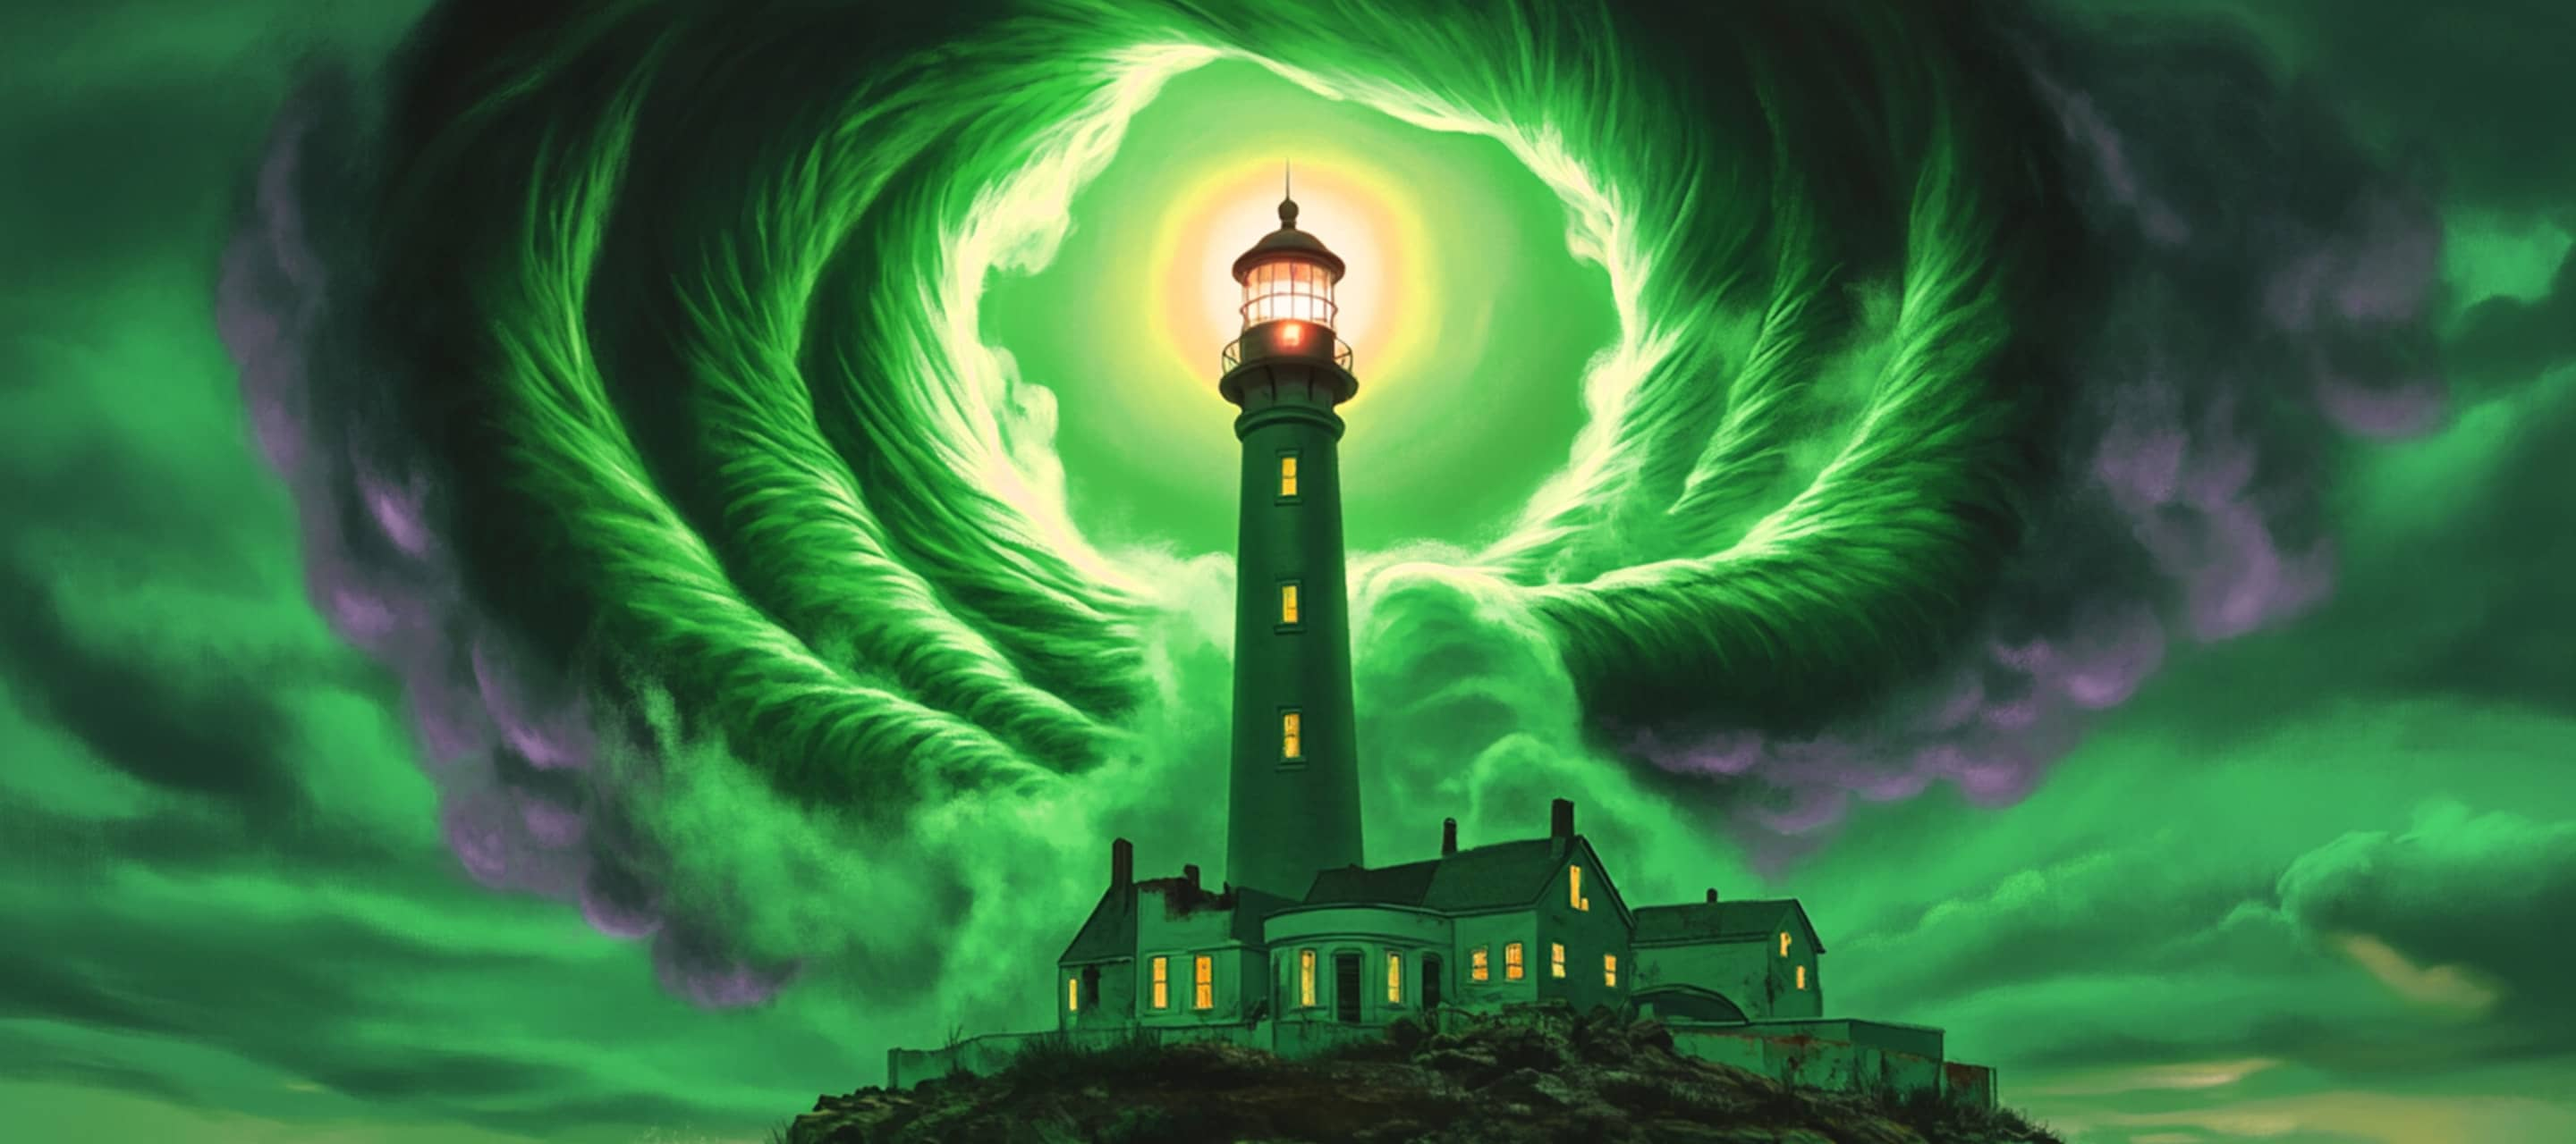
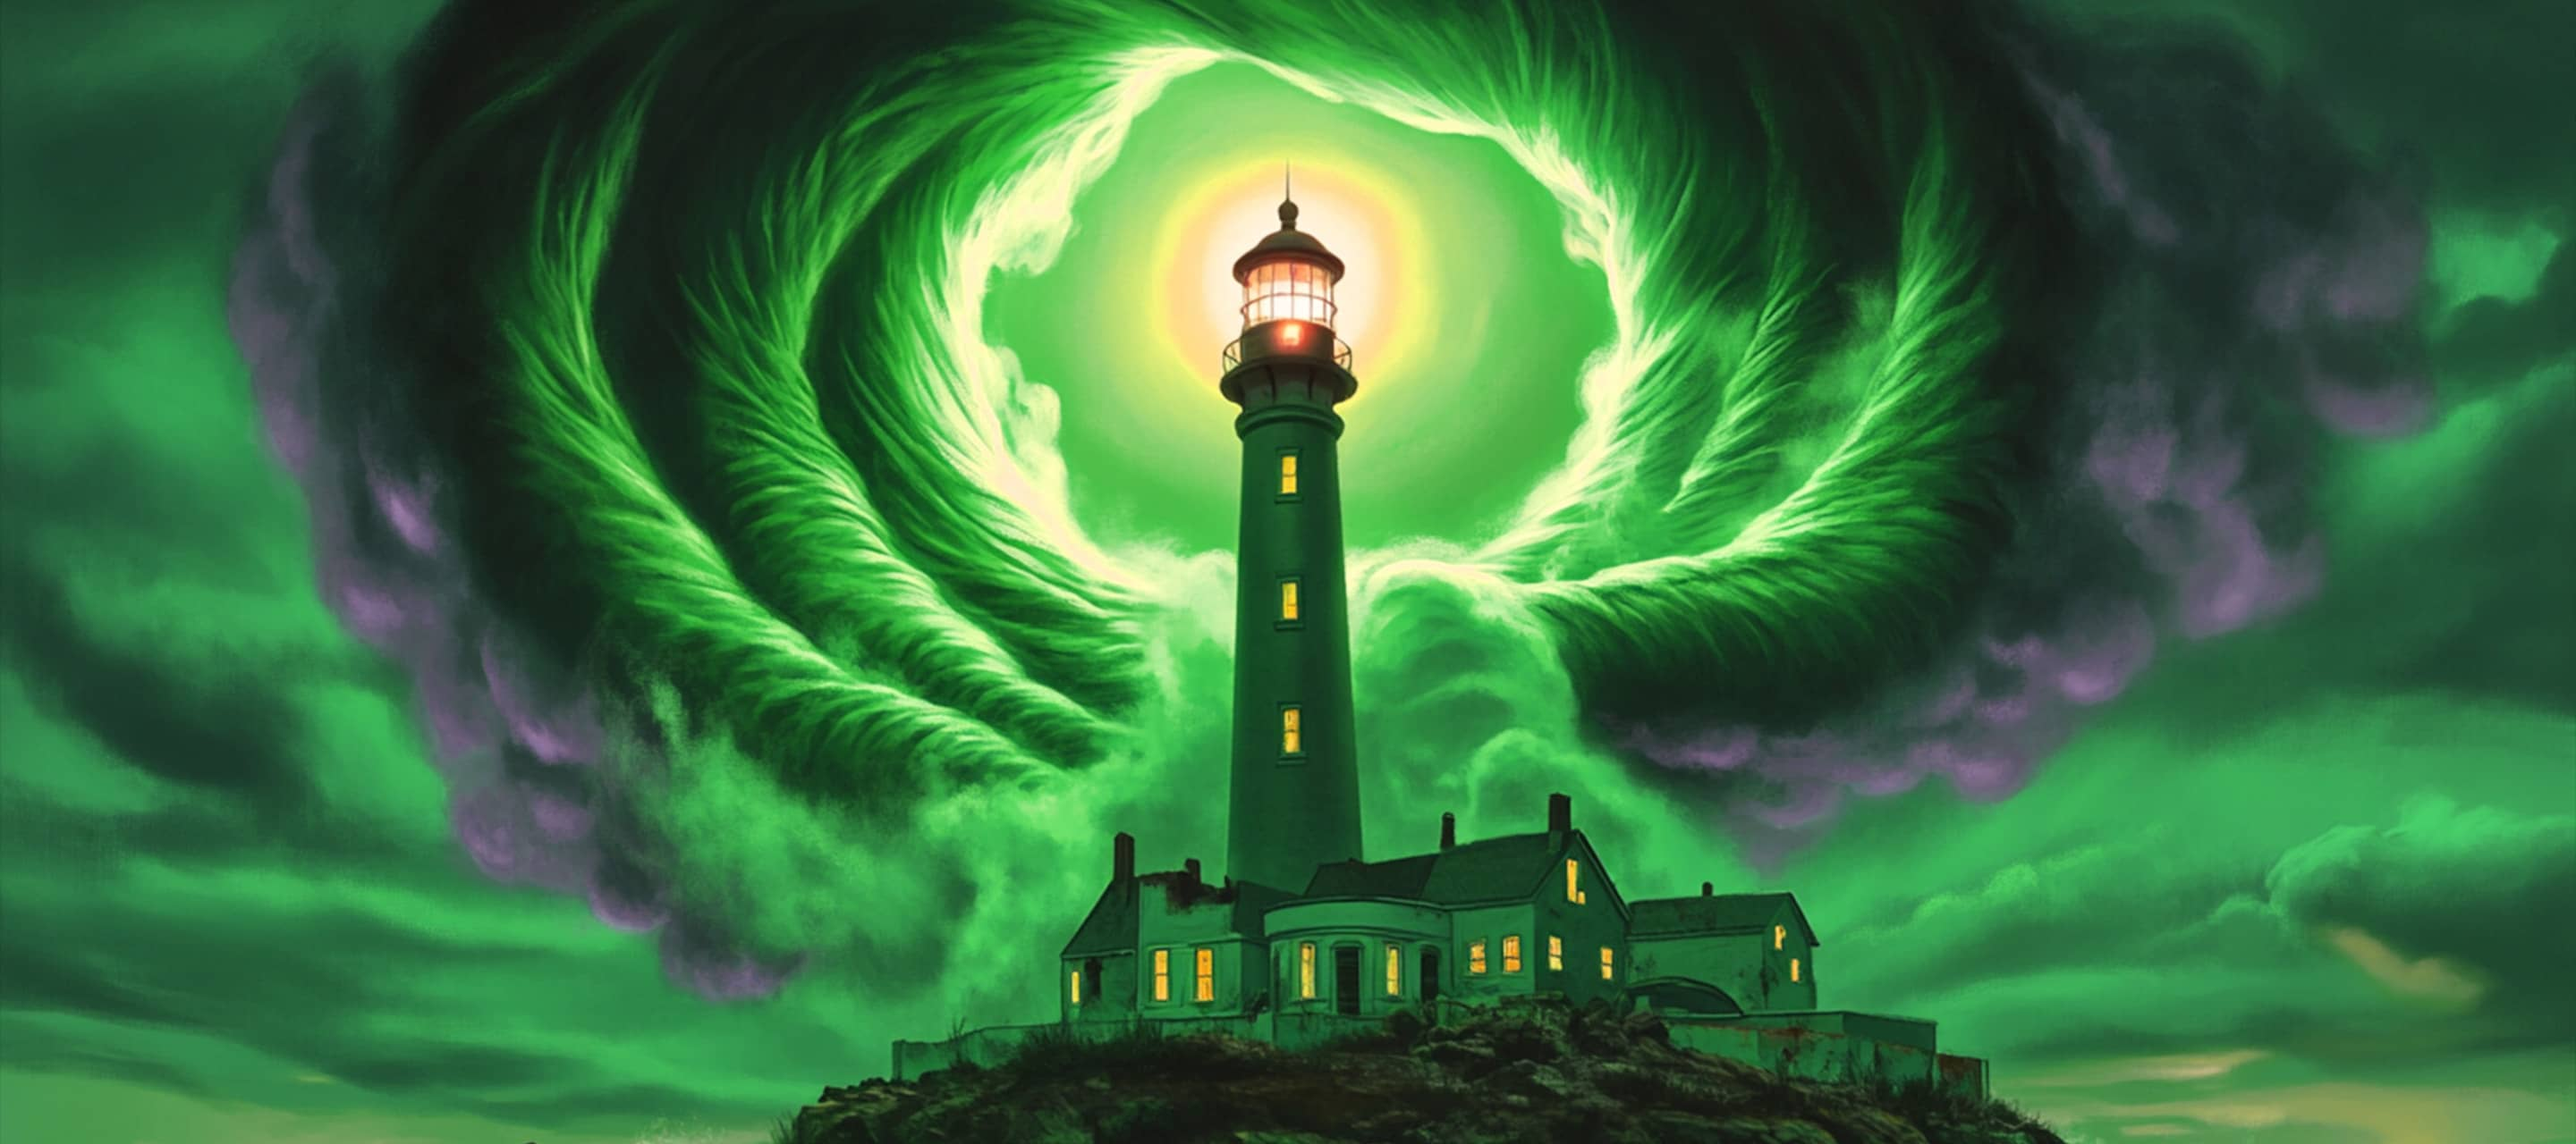
Got the lighthouse animation working with the beam and overlay.

diff --git a/src/experiences/Lighthouse/LighthouseProvider.tsx b/src/experiences/Lighthouse/LighthouseProvider.tsx
@@ -11,14 +11,18 @@ import {
 } from "react";
 import { Assets } from "pixi.js";
 import Lighthouse from "./Lighthouse";
-import { lighthouseBackground } from "./images";
+import { beam, lighthouseBackground, windowGlow } from "./images";
 
 export interface UseLighthouseProps {
   allTexturesLoaded: boolean;
+  backgroundRef: RefObject<any>;
+  beamRef: RefObject<any>;
+  overlayRef: RefObject<any>;
   parentRef: RefObject<HTMLDivElement | null>;
   parentSize: { width: number; height: number };
   parentSizeRef: RefObject<{ width: number; height: number }>;
   textures: Record<string, any>;
+  windowGlowRef: RefObject<any>;
 }
 
 const LighthouseContext = createContext<UseLighthouseProps | undefined>(
@@ -33,6 +37,10 @@ export const LighthouseProvider = ({
   parentRef,
 }: LighthouseProviderProps): JSX.Element => {
   const parentSizeRef = useRef({ width: 0, height: 0 });
+  const backgroundRef = useRef<any>(null);
+  const beamRef = useRef<any>(null);
+  const overlayRef = useRef<any>(null);
+  const windowGlowRef = useRef<any>(null);
 
   const [parentSize, setParentSize] = useState({ width: 0, height: 0 });
   const [textures, setTextures] = useState<Record<string, any>>({});
@@ -41,6 +49,8 @@ export const LighthouseProvider = ({
   const texturePaths = useMemo<Record<string, string>>(() => {
     return {
       lighthouseBackground: lighthouseBackground,
+      windowGlow: windowGlow,
+      beam: beam,
     };
   }, []);
 
@@ -90,10 +100,14 @@ export const LighthouseProvider = ({
   const contextValues = useMemo(
     () => ({
       allTexturesLoaded,
+      backgroundRef,
+      beamRef,
+      overlayRef,
       parentRef,
       parentSize,
       parentSizeRef,
       textures,
+      windowGlowRef,
     }),
     [allTexturesLoaded, parentRef, parentSize, textures]
   );

diff --git a/src/experiences/Lighthouse/utils/animations.ts b/src/experiences/Lighthouse/utils/animations.ts
@@ -1,0 +1,70 @@
+import { gsap } from "gsap";
+
+export const animateWindowGlow = (windowGlowRef: any): void => {
+  const flicker = () => {
+    if (windowGlowRef.current) {
+      gsap.to(windowGlowRef.current, {
+        alpha: Math.random() * 0.5 + 0.5,
+        duration: Math.random() * 0.1 + 0.2,
+        repeat: 0,
+        yoyo: true,
+        ease: "power1.inOut",
+        onComplete: flicker,
+      });
+    }
+  };
+  flicker();
+};
+
+export const animateLighthouse = ({
+  beamRef,
+  overlayRef,
+  parentSize,
+}: any): void => {
+  const repeat = -1;
+  const tl = gsap.timeline({ repeat: repeat });
+  const tlo = gsap.timeline({ repeat: repeat });
+  const brc = beamRef.current;
+  const orc = overlayRef.current;
+
+  tl.to(brc, {
+    pixi: {
+      alpha: 0.3,
+      scaleY: 0,
+    },
+    ease: "circ.out",
+    duration: 6,
+  });
+  tl.set(brc, {
+    pixi: {
+      anchorX: 0,
+      x: parentSize.width,
+      scaleX: -0.5,
+    },
+  });
+  tl.to(brc, {
+    pixi: {
+      alpha: 0.8,
+      scaleY: 10,
+    },
+    ease: "circ.in",
+    duration: 6,
+  });
+  console.log(tl.totalDuration());
+
+  tlo.to(orc, {
+    pixi: {
+      alpha: 0,
+    },
+    duration: 0.4,
+  });
+  tlo.to(orc, {
+    pixi: {
+      alpha: 0.7,
+    },
+    delay: 11.2,
+    duration: 0.4,
+  });
+
+  console.log(tlo.totalDuration());
+};

diff --git a/src/experiences/Lighthouse/Lighthouse.tsx b/src/experiences/Lighthouse/Lighthouse.tsx
@@ -1,10 +1,30 @@
-import { type JSX } from "react";
+import { type JSX, useEffect } from "react";
+import { useLighthouse } from "./LighthouseProvider";
+import {
+  // animateBeam,
+  animateLighthouse,
+  // animateOverlay,
+  animateWindowGlow,
+} from "./utils/animations";
 import Background from "./components/Background";
+import Beam from "./components/Beam";
+import WindowGlow from "./components/WindowGlow";
+import Overlay from "./components/Overlay";
 
 export default function Lighthouse(): JSX.Element {
+  const { beamRef, overlayRef, parentSize, windowGlowRef } = useLighthouse();
+
+  useEffect(() => {
+    animateWindowGlow(windowGlowRef);
+    animateLighthouse({ beamRef, overlayRef, parentSize });
+  }, [beamRef, overlayRef, parentSize, windowGlowRef]);
+
   return (
     <pixiContainer>
       <Background />
+      <WindowGlow />
+      <Beam />
+      <Overlay />
     </pixiContainer>
   );
 }

diff --git a/src/experiences/Lighthouse/components/Overlay.tsx b/src/experiences/Lighthouse/components/Overlay.tsx
@@ -1,0 +1,23 @@
+import { type JSX } from "react";
+import { useLighthouse } from "../LighthouseProvider";
+
+const Overlay = (): JSX.Element | null => {
+  const { allTexturesLoaded, overlayRef, parentSize } = useLighthouse();
+
+  if (!allTexturesLoaded) return null;
+
+  return (
+    <pixiGraphics
+      alpha={0}
+      ref={overlayRef}
+      draw={(graphics) => {
+        graphics.clear();
+        graphics.fill({ color: 0xffbd28 });
+        graphics.rect(0, 0, parentSize.width, parentSize.height);
+        graphics.fill();
+      }}
+    />
+  );
+};
+
+export default Overlay;

diff --git a/src/experiences/Lighthouse/components/Beam.tsx b/src/experiences/Lighthouse/components/Beam.tsx
@@ -1,0 +1,23 @@
+import { type JSX } from "react";
+import { useLighthouse } from "../LighthouseProvider";
+
+const Beam = (): JSX.Element | null => {
+  const { allTexturesLoaded, beamRef, parentSize, textures } = useLighthouse();
+
+  if (!allTexturesLoaded || !textures.beam) return null;
+
+  return (
+    <pixiSprite
+      alpha={0.8}
+      anchor={{ x: 0, y: 0.5 }}
+      height={parentSize.height}
+      ref={beamRef}
+      scale={{ x: 0.5, y: 10 }}
+      y={166}
+      texture={textures.beam}
+      width={parentSize.width}
+    />
+  );
+};
+
+export default Beam;

diff --git a/src/experiences/Lighthouse/components/WindowGlow.tsx b/src/experiences/Lighthouse/components/WindowGlow.tsx
@@ -1,0 +1,21 @@
+import { type JSX } from "react";
+import { useLighthouse } from "../LighthouseProvider";
+
+const WindowGlow = (): JSX.Element | null => {
+  const { allTexturesLoaded, parentSize, textures, windowGlowRef } =
+    useLighthouse();
+
+  if (!allTexturesLoaded || !textures.windowGlow) return null;
+
+  return (
+    <pixiSprite
+      ref={windowGlowRef}
+      alpha={1}
+      height={parentSize.height}
+      texture={textures.windowGlow}
+      width={parentSize.width}
+    />
+  );
+};
+
+export default WindowGlow;

diff --git a/src/experiences/Lighthouse/PixiApp.tsx b/src/experiences/Lighthouse/PixiApp.tsx
@@ -1,10 +1,11 @@
 import { RefObject, type JSX } from "react";
 import { Application, extend } from "@pixi/react";
-import { Container, Sprite } from "pixi.js";
+import { Container, Graphics, Sprite } from "pixi.js";
 import { LighthouseProvider } from "./LighthouseProvider";
 
 extend({
   Container,
+  Graphics,
   Sprite,
 });
 

diff --git a/src/App.tsx b/src/App.tsx
@@ -24,11 +24,11 @@ function App(): JSX.Element {
         id="benzo-app"
       >
         <PictureFrame />
+        <Lighthouse />
         <Hero />
         <About />
         <Clients />
         <Resume />
-        <Lighthouse />
         <CallToAction />
         <Hell />
       </main>

diff --git a/src/experiences/Lighthouse/images/index.ts b/src/experiences/Lighthouse/images/index.ts
@@ -1,3 +1,5 @@
+import beam from "./beam.png";
 import lighthouseBackground from "./lighthouseBackground.jpg";
+import windowGlow from "./windowGlow.png";
 
-export { lighthouseBackground };
+export { beam, lighthouseBackground, windowGlow };

diff --git a/src/ui/SectionHeader/styles.scss b/src/ui/SectionHeader/styles.scss
@@ -22,7 +22,7 @@
 
 .section-header--default > * {
   color: $text-light;
-  line-height: 1;
+  line-height: 1.3;
 }
 
 .section-header--dark > * {
